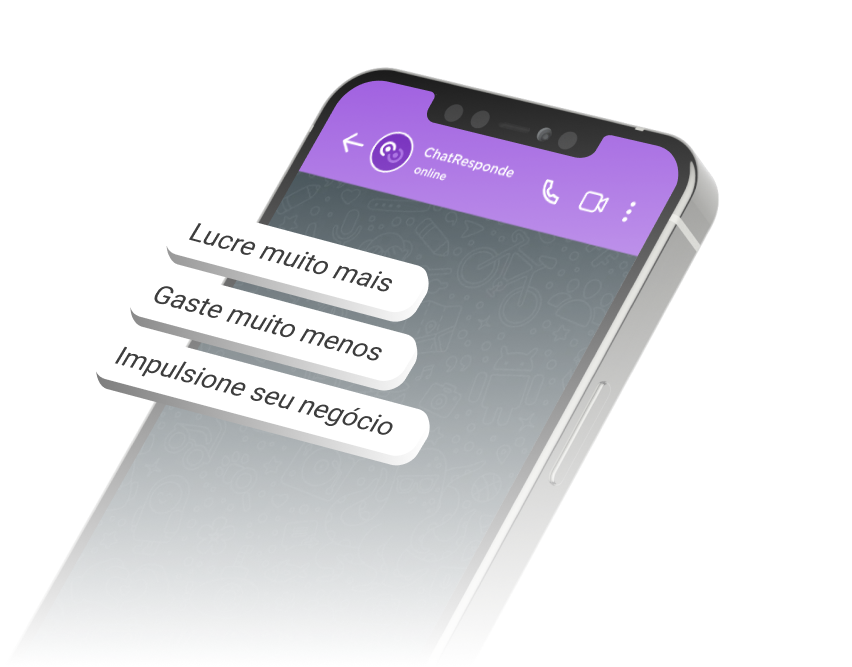
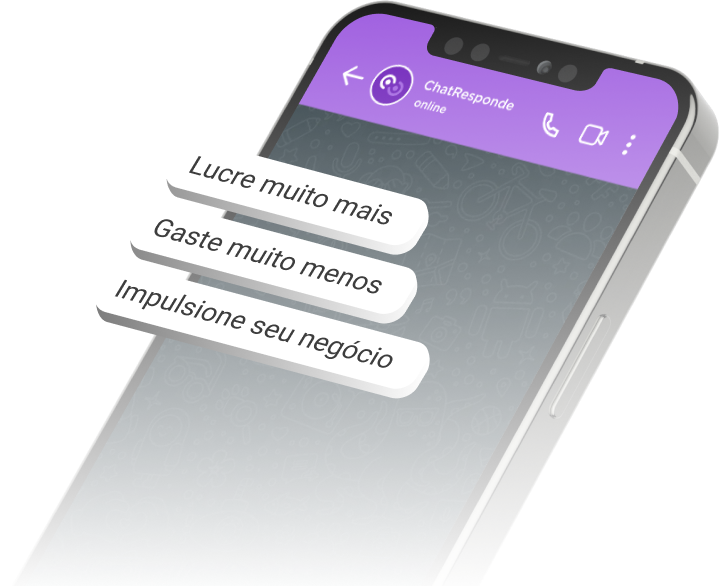
improved mobile-chat image

diff --git a/src/components/home/HeroSection.tsx b/src/components/home/HeroSection.tsx
@@ -3,7 +3,7 @@ import { Button } from "../ui/button";
 
 export default function HeroSection() {
   return (
-    <section className="cr-container flex flex-col-reverse gap-10 md:flex-row duration-300">
+    <section className="cr-container flex flex-col-reverse gap-10 md:flex-row items-center duration-300">
       <div className="flex flex-col gap-7 text-center md:text-left max-w-3xl duration-300">
         <h2 className="text-4xl md:text-5xl font-extrabold cr-text-gradient duration-300">
           Impulsione suas vendas de forma automática e com muita escala com
@@ -17,15 +17,12 @@ export default function HeroSection() {
         <Button className="font-bold md:w-fit">Quero fazer parte!</Button>
       </div>
 
-      {/* This margin is for compensating image's white space */}
-      <div className="md:-mt-14">
-        <Image
-          src="/assets/home/mobile-chat.png"
-          alt="Mobile screen showing chat"
-          width={1400}
-          height={1400}
-        />
-      </div>
+      <Image
+        src="/assets/home/mobile-chat.png"
+        alt="Mobile screen showing chat"
+        width={450}
+        height={450}
+      />
     </section>
   );
 }
